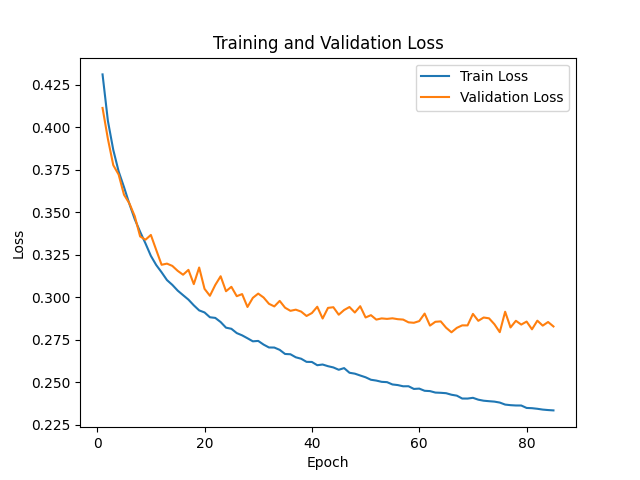
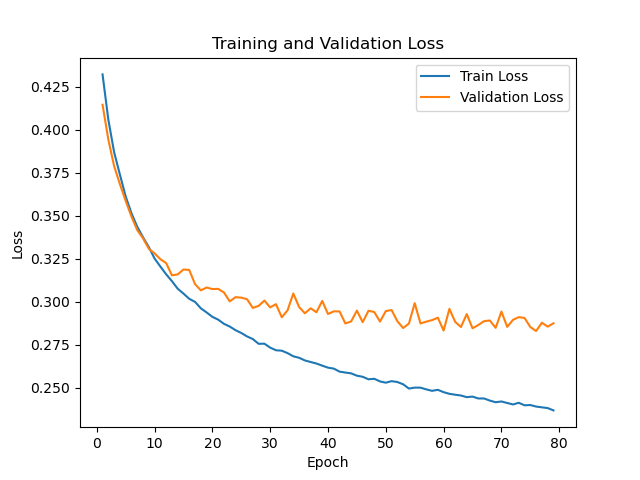
Added subprocess script to run all model loading, training, and evaluation

diff --git a/run_scripts.py b/run_scripts.py
@@ -1,0 +1,13 @@
+# Run all python scripts in order to load data, build model, and evaluate results
+# Important since parquet db files are not committed to git
+import subprocess
+
+subprocess.run(["pip install -r requirements.txt"], shell=True, check=True)
+print()
+subprocess.run(["python3", "data/load_data.py"], check=True)
+print()
+subprocess.run(["python3", "data/calculate_features.py"], check=True)
+print()
+subprocess.run(["python3", "data/build_model.py"], check=True)
+print()
+subprocess.run(["python3", "data/model_evaluation.py"], check=True)
